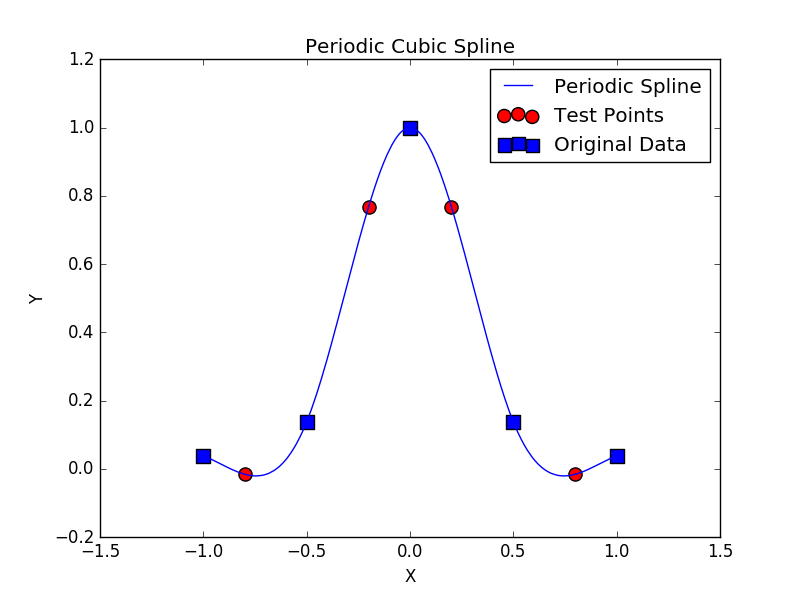
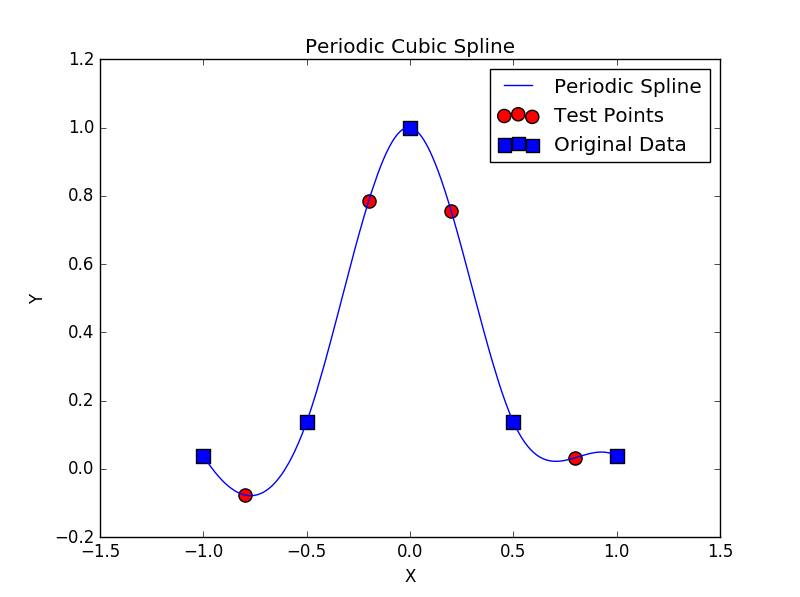
Fixed Periodic Spline

diff --git a/PeriodicCubicSpline.py b/PeriodicCubicSpline.py
@@ -30,17 +30,17 @@ import numpy as np
 H = np.array(H)
 
 # Periodic Spline
-G = [0] + G + [0]
+G = [6*(g[0]-g[-1])] + G 
 print H
-# H = np.delete(H,np.s_[-1],axis=1)
-# H = np.delete(H,np.s_[-1],axis=0)
+H = np.delete(H,np.s_[-1],axis=1)
+H = np.delete(H,np.s_[-1],axis=0)
 print H
 H = H.tolist()
 H = [ [2*(h[-1]+h[0]),h[0]] + [0 for t in range(len(H[0])-3)] + [h[-1]] ] + H + [ [h[-1]] + [0 for t in range(len(H[0])-3)] + [h[-2],2*(h[-2]+h[-1])] ]
 print h
 print np.array(H)
 sigma = np.linalg.solve(H,G).tolist()
-# sigma = sigma + [sigma[0]]
+sigma = sigma + [sigma[0]]
 
 A = [sigma[i+1]/(6*h[i]) for i in range(len(h))]
 B = [sigma[i]/(6*h[i]) for i in range(len(h))]
